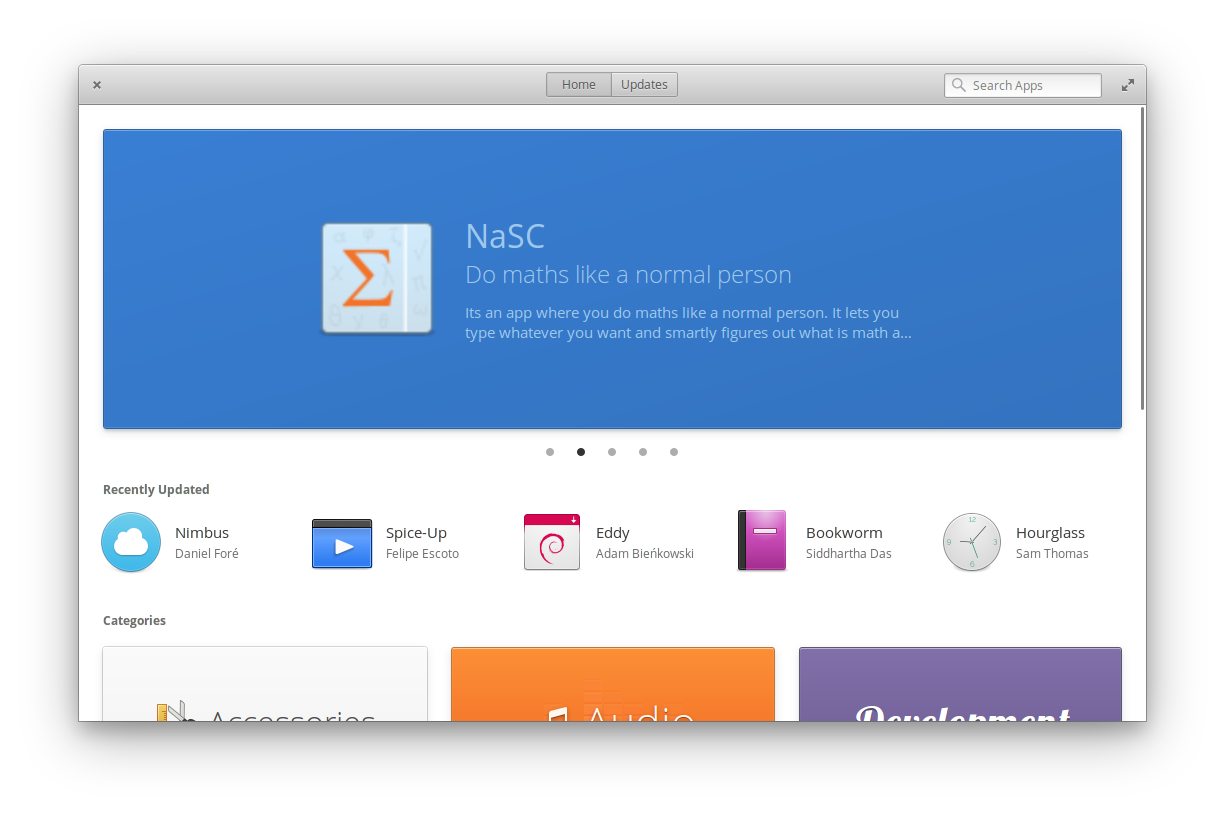
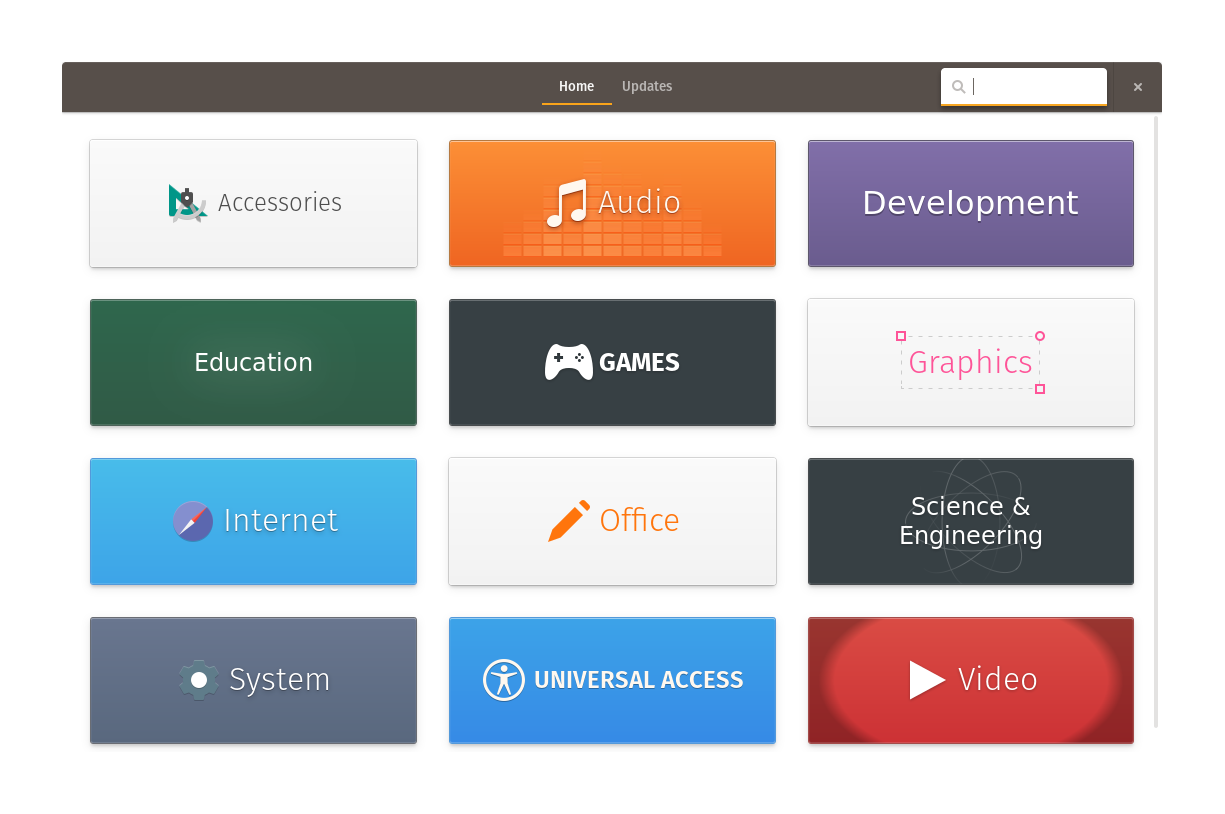
Fork off Pop!_Shop

diff --git a/data/application.css b/data/application.css
@@ -17,10 +17,7 @@
 
 .banner {
     background-color: @banner_bg_color;
-    background-image: linear-gradient(to bottom right,
-                              shade (@banner_bg_color, 1.05),
-                              shade (@banner_bg_color, 0.95)
-                              );
+    background-image: linear-gradient(@banner_bg_color, @banner_bg_color);
     color: @banner_fg_color;
     icon-shadow: none;
     text-shadow: none;
@@ -78,6 +75,10 @@
 .banner .button .label {
     color: @banner_bg_color;
     text-shadow: 0 1px 1px alpha (@banner_fg_color, 0.1);
+}
+
+.banner progressbar {
+    color: @banner_fg_color;
 }
 
 .category {
@@ -306,5 +307,5 @@
 
 .terminal selection {
     background-color: #93a1a1;
-    color: #252e32; 
+    color: #252e32;
 }

diff --git a/README.md b/README.md
@@ -1,10 +1,10 @@
-# AppCenter
+# Pop\!\_Shop
 [![Translation status](https://l10n.elementary.io/widgets/appcenter/-/svg-badge.svg)](https://l10n.elementary.io/projects/appcenter/?utm_source=widget)
 [![Bountysource](https://www.bountysource.com/badge/tracker?tracker_id=57667267)](https://www.bountysource.com/teams/elementary/issues?tracker_ids=57667267)
 
-An open, pay-what-you-want app store for indie developers.
+An open, pay-what-you-want app store for indie developers. Based on the [Elementary AppCenter](https://github.com/elementary/appcenter)
 
-![AppCenter Screenshot](data/screenshot.png?raw=true)
+![Pop Shop Screenshot](data/screenshot.png?raw=true)
 
 ## Building, Testing, and Installation
 

diff --git a/CODE_OF_CONDUCT.md b/CODE_OF_CONDUCT.md
@@ -1,1 +1,1 @@
-Contributors to this repo agree to be bound by the [Code of Conduct](https://elementary.io/code-of-conduct) as made available on our website.
+Contributors to this repo agree to be bound by the [Pop! Code of Conduct](https://github.com/pop-os/code-of-conduct).
